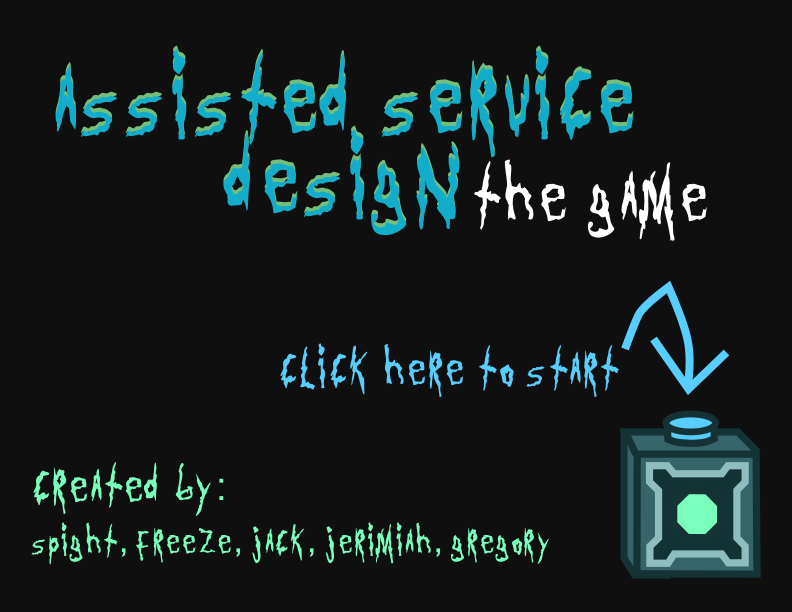
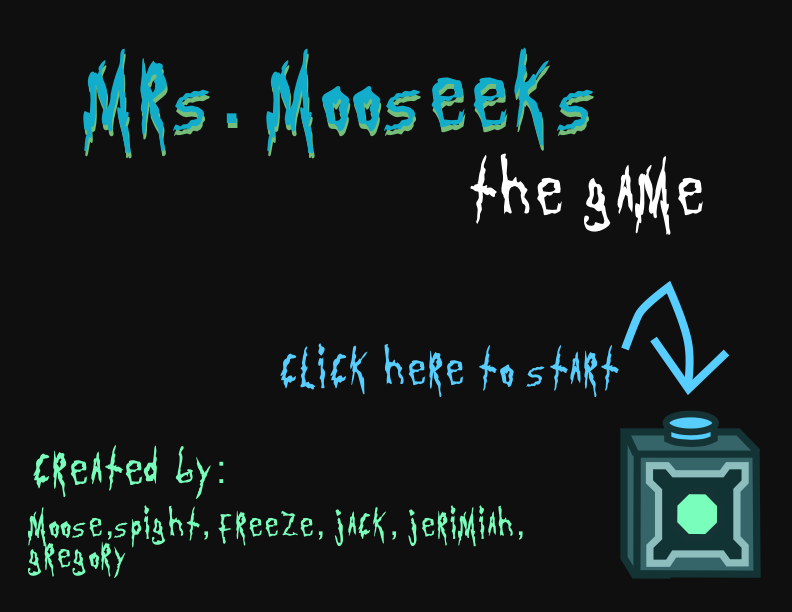
Title Screen update & adding some basic controls

Changed region(s): [[0.0606, 0.0621, 0.9091, 0.4036], [0.0303, 0.7451, 0.697, 0.9624]]

diff --git a/sketch.js b/sketch.js
@@ -128,6 +128,8 @@ var sketchProc = function(p) {
     var canvas = p.createCanvas(1000, 772.72);
     brickXs.push(background_image.width*2);
     background = new Background(background_image);
+    p.createP("Press spacebar to jump.");
+    p.createP("Press left & right arrow keys to move");
   };
 
   var PickSound = function() {
